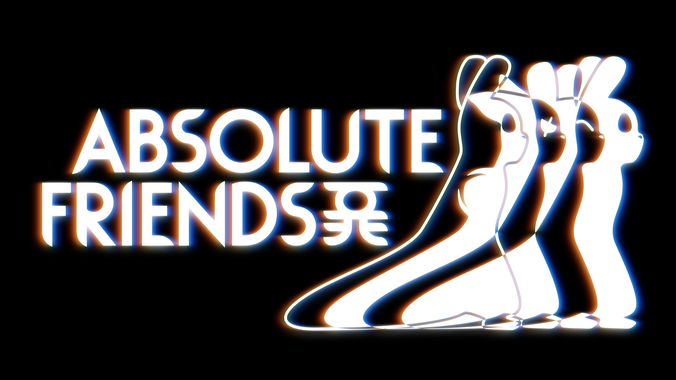
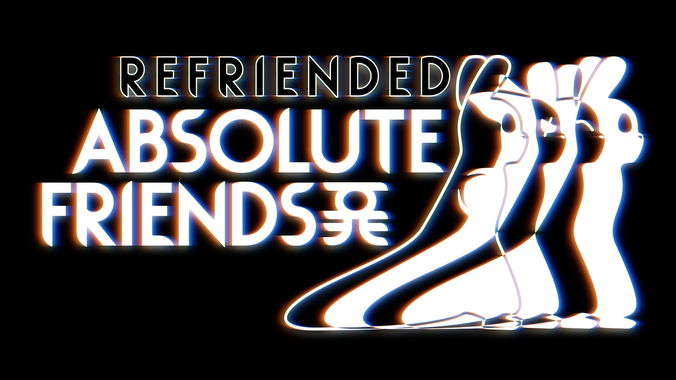
Prepare Refriended edition and addon packages

diff --git a/external/friendship-editor/src/Plugin.cs b/external/friendship-editor/src/Plugin.cs
@@ -16,7 +16,7 @@ public class Plugin : AddonPlugin
 {
     public const string GUID = "pjhgamma.friendshipeditor";
 
-    public const string Name = "Friendship Editor";
+    public const string Name = "Absolute Friends: Friendship Editor";
 
     public const string Version = "0.3.0";
 

diff --git a/external/chained-together/src/Plugin.cs b/external/chained-together/src/Plugin.cs
@@ -14,7 +14,7 @@ public class Plugin : AddonPlugin
 {
     public const string GUID = "pjhgamma.chainedtogether";
 
-    public const string Name = "Chained Together";
+    public const string Name = "Absolute Friends: Chained Together";
 
     public const string Version = "0.3.0";
 

diff --git a/src/Plugin.cs b/src/Plugin.cs
@@ -14,7 +14,7 @@ public class Plugin : BaseUnityPlugin
 {
     public const string GUID = "pjhgamma.absolutefriends";
 
-    public const string Name = "Absolute Friends";
+    public const string Name = "Absolute Friends: Refriended";
 
     public const string Version = "0.3.0";
 

diff --git a/external/resonance/src/Plugin.cs b/external/resonance/src/Plugin.cs
@@ -14,7 +14,7 @@ public class Plugin : AddonPlugin
 {
     public const string GUID = "pjhgamma.resonance";
 
-    public const string Name = "Resonance";
+    public const string Name = "Absolute Friends: Resonance";
 
     public const string Version = "0.3.0";
 

diff --git a/README.md b/README.md
@@ -1,1 +1,39 @@
-# absolute-friends
+# Absolute Friends: Refriended
+
+Refriended is Nyxlanders' repackaging of Absolute Friends 0.3.0 by pjhgamma,
+with a new cover and display name. Gameplay is unchanged in this edition.
+
+- Original: https://github.com/pjhgamma/absolute-friends
+- Fork: https://github.com/Nyxlanders/absolute-friends
+- License: MIT; see LICENSE. Original copyright and credits are preserved.
+
+## Build the Workshop package
+
+Requirements: .NET SDK 10, Rain World with BepInEx, and Rain Meadow installed.
+The build uses assemblies from your installed game; these dependencies are not
+included in the published package.
+
+Run `./Prepare-Workshop.ps1` in PowerShell. Optional parameters:
+`-GamePath` and `-MeadowPluginPath` override the default D: Steam library paths.
+The completed package is in `artifacts/workshop/absolute-friends-refriended`.
+It includes the main plugin, ten built-in modules, assets, and license notices.
+External addons such as Resonance and Friendship Editor are separate mods.
+
+Run `./Prepare-Addons.ps1` to also build Chained Together, Resonance, and
+Friendship Editor. Separate installable folders are generated under
+`artifacts/addon-packages`. Copy each folder into the game's mods directory,
+then restart the game and enable the desired addons in Remix alongside the
+base mod. The developer demonstration addon Example is not bundled.
+
+## Local test and upload
+
+Copy the package into `RainWorld_Data/StreamingAssets/mods` inside Rain World.
+Open Remix and check Absolute Friends: Refriended before publishing with the
+game's Workshop uploader. Test a campaign and the Remix options first.
+WORKSHOP-DESCRIPTION.txt contains suggested listing text.
+
+This edition keeps the original mod ID and plugin IDs for compatibility with
+existing settings and addons. Use only one edition at a time. A local copy can
+take precedence over the subscribed original. Remove the local folder to return
+to the Workshop copy. Create a new Workshop item under your account; the original
+author's item ID is not included in this package.
